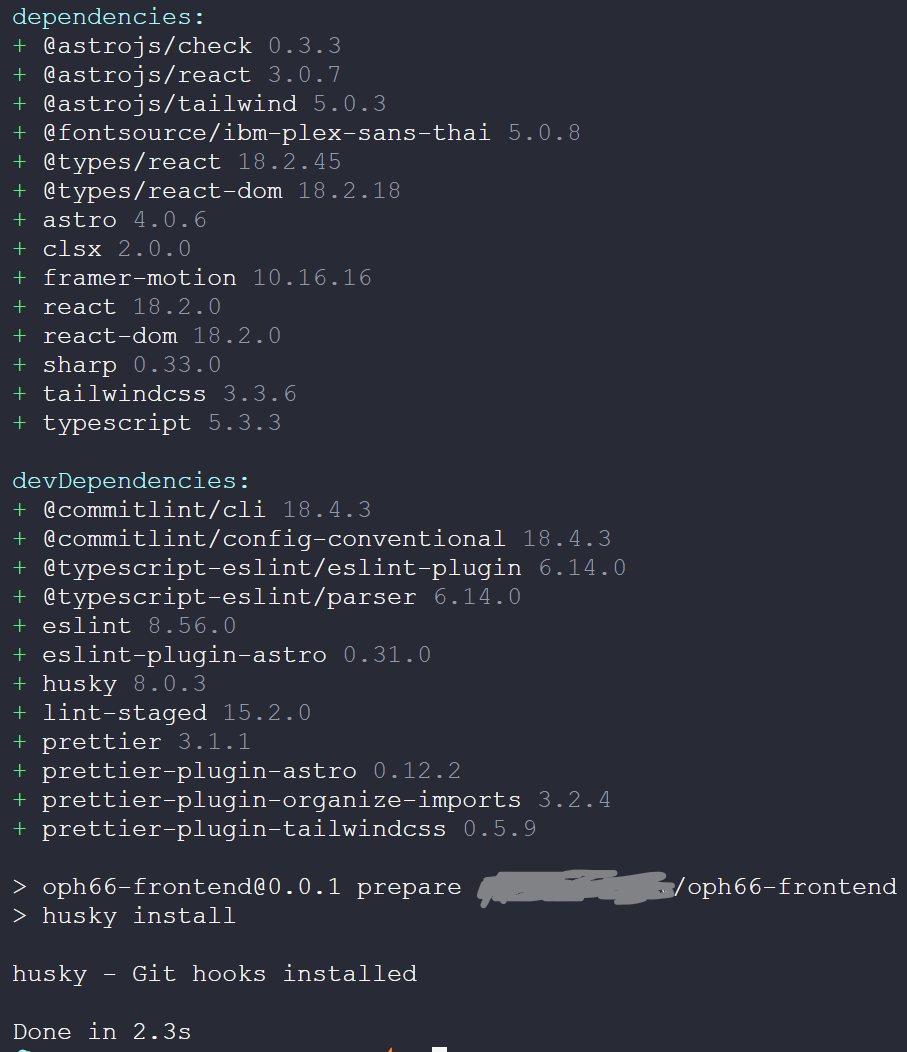
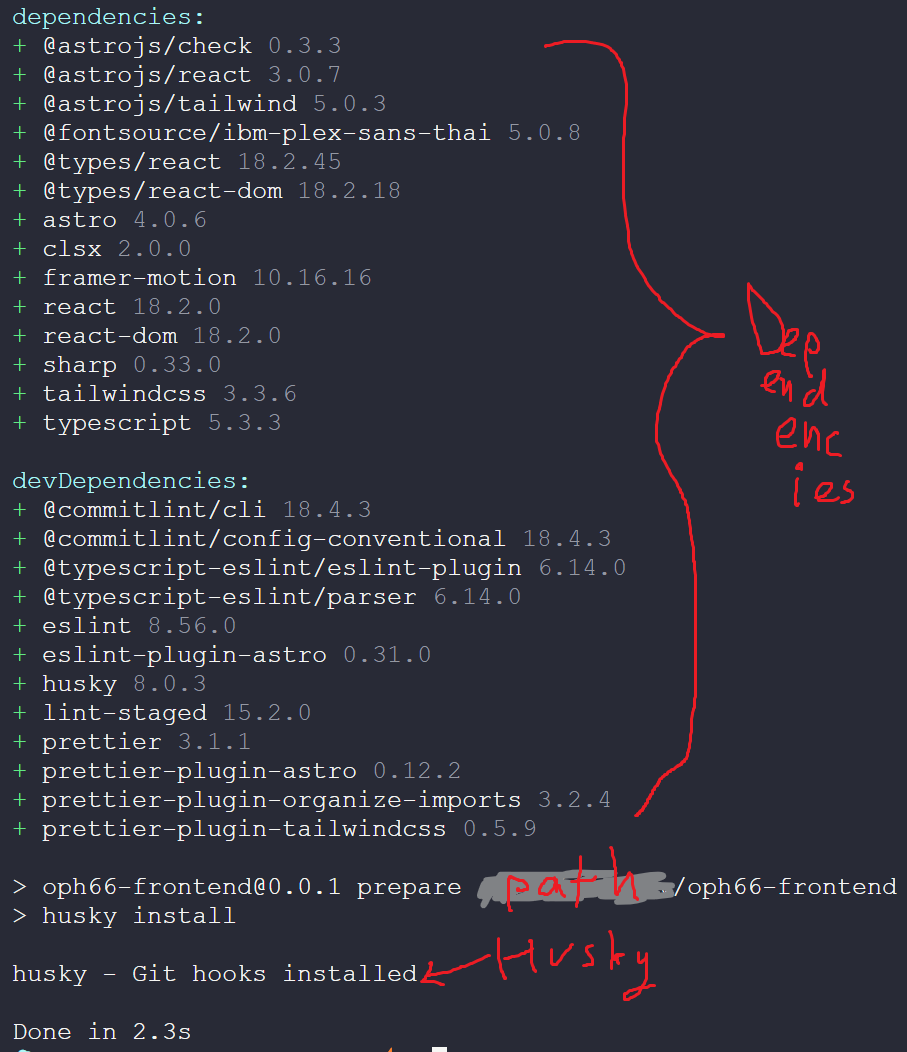
docs: update image in readmd

diff --git a/README.md b/README.md
@@ -94,7 +94,8 @@ Please install the following.
    Make sure that all dependencies are installed successfully. And husky should be install!
 
    The output should look like this:
-   [After installlation output](./docs/assets/after-install.png)
+
+   <img src="./docs/assets/after-install.png" alt="after-install" width="300"/>
 
 1. Run the development server
    ```bash
